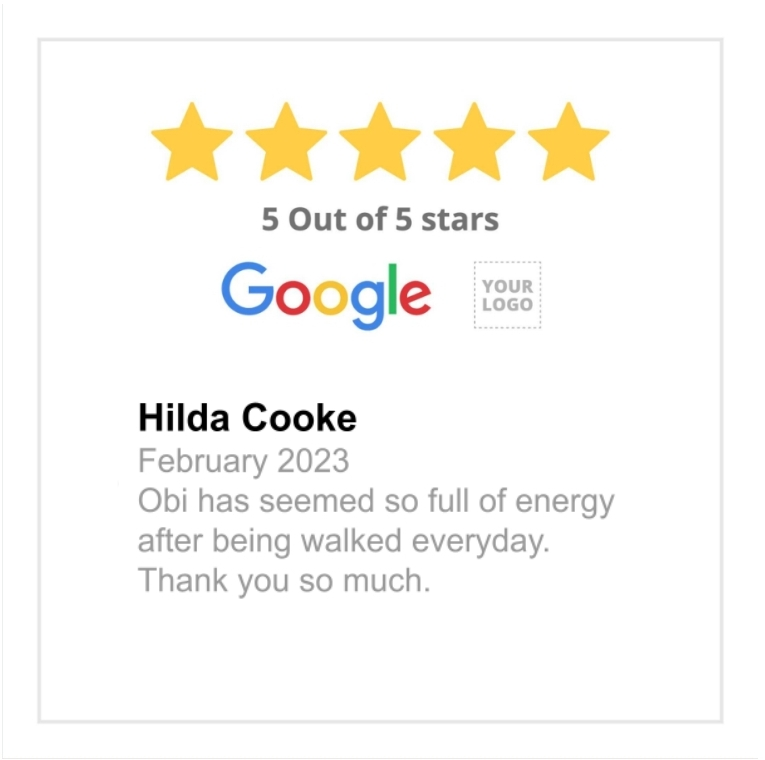
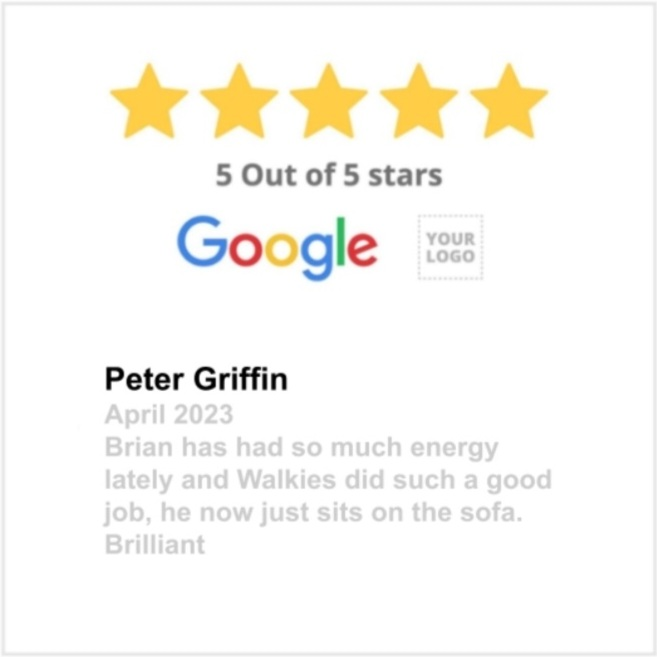
Allow changes to the review screen

diff --git a/reviews.html b/reviews.html
@@ -34,35 +34,36 @@
         
         <div class="row">
             <div class="column">
-                <img src="assets/images/google1.jpg" alt="review" style="width:100%">
+                <img src="assets/images/google1.jpg" alt="review" style="width:90%">
             </div>
             <div class="column">
-                <img src="assets/images/google2.jpg" alt="review" style="width:100%">
+                <img src="assets/images/google2.jpg" alt="review" style="width:90%">
             </div>
             <div class="column">
-                <img src="assets/images/google3.jpg" alt="review" style="width:100%">
+                <img src="assets/images/google3.jpg" alt="review" style="width:95%">
             </div>
             <div class="column">
-                <img src="assets/images/google4.jpg" alt="review" style="width:100%">
+                <img src="assets/images/google4.jpg" alt="review" style="width:95%">
             </div>
             <div class="column">
-                <img src="assets/images/google_image.jpg" alt="review" style="width:100%">
+                <img src="assets/images/google5.jpg" alt="review" style="width:95%">
             </div>
             <div class="column">
-                <img src="assets/images/google6.jpg" alt="review" style="width:100%">
+                <img src="assets/images/google6.jpg" alt="review" style="width:95%">
             </div>
             <div class="column">
-                <img src="assets/images/google7.jpg" alt="review" style="width:100%">
+                <img src="assets/images/google7.jpg" alt="review" style="width:95%">
             </div>
             <div class="column">
-                <img src="assets/images/cute_dog2.jpg" alt="review" style="width:100%">
+                <img src="assets/images/google9.jpg" alt="review" style="width:87%">
             </div>
             <div class="column">
-                <img src="assets/images/google8.jpg" alt="review" style="width:100%">
+                <img src="assets/images/google10.jpg" alt="review" style="width:95%">
             </div>
             <div class="column">
-                <img src="assets/images/google5.jpg" alt="review" style="width:100%">
+                <img src="assets/images/google8.jpg" alt="review" style="width:95%">
             </div>
+           
       </div>
 <!--footer with address, contact details and seocial media with icons-->
       <footer class="the-footer">

diff --git a/assets/css/style.css b/assets/css/style.css
@@ -131,8 +131,8 @@ footer {
     float: left;
     width: 20%;
     padding: 5px;
-    padding-left: 25px;
-    padding-right: 25px;
+    padding-left: 20px;
+    padding-right: 20px;
   }
   
   .row::after {
@@ -291,7 +291,12 @@ textarea { border: 2px solid black;
     
     footer {
         min-height: 180px;}
+    
+    .column {
+        width: 25%;
     }
+}
+
 /* for medium from 1200px wide and down */
 @media screen and (max-width:1200px) {
     #benefits {
@@ -329,6 +334,7 @@ textarea { border: 2px solid black;
     footer {
         min-height: 200px;}
     }
+    
 
 /* for small from 800px wide and down */
 @media screen and (max-width:800px) {
@@ -338,7 +344,8 @@ textarea { border: 2px solid black;
     
     input[type=text],input[type=email], label, input  {
         font-size: 20px;}
-    
+    .column {
+            width: 33%;}
 }
 /* for small from 500px wide and down */
 @media screen and (max-width:500px) {
@@ -382,7 +389,8 @@ textarea { border: 2px solid black;
     #address {
         width: 320px;
         height: 170px;
-        font-size: 20px;
-    }
+        font-size: 20px;}
+    .column {
+        width: 50%;}
     
 }
